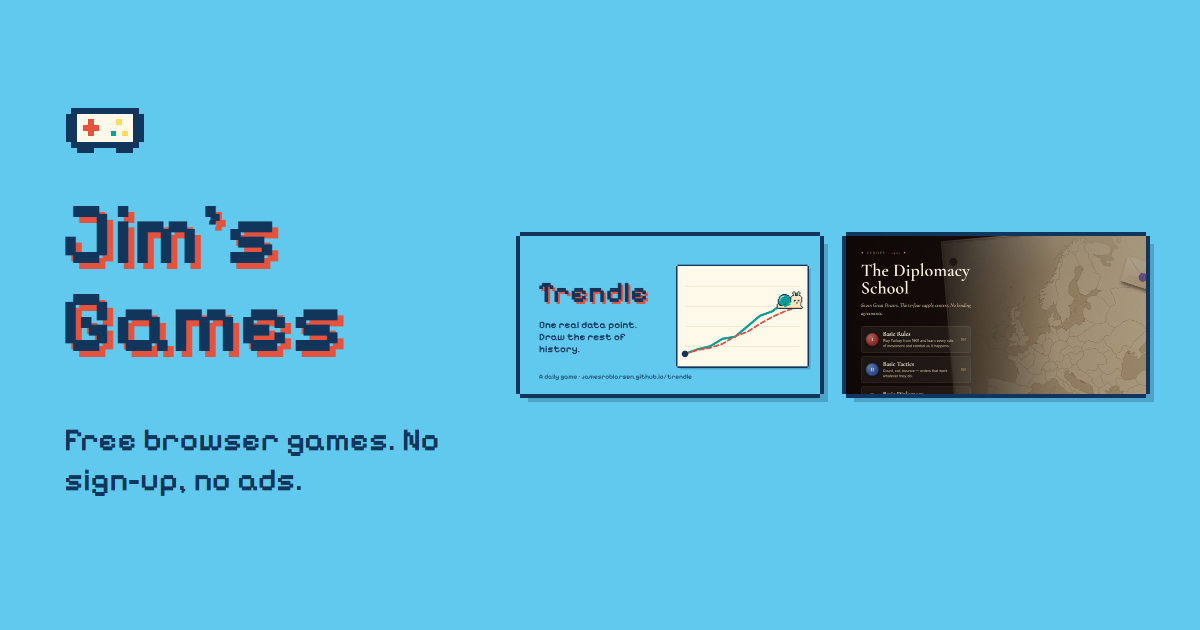
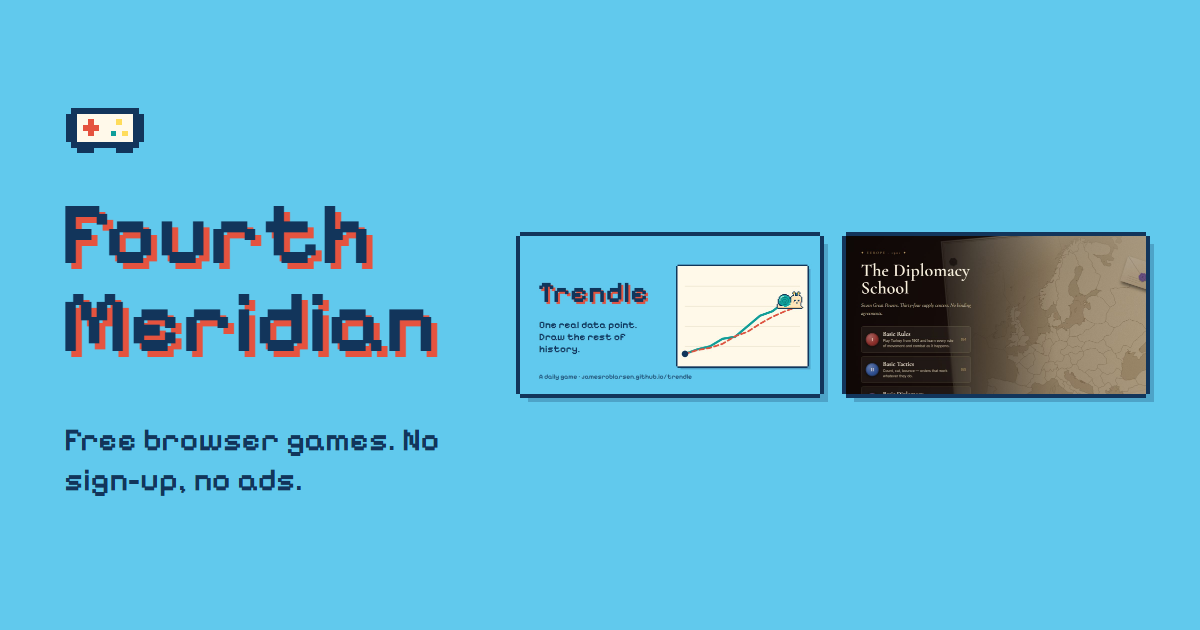
Publish hub build of 663f846

Changed region(s): [[0.0308, 0.3317, 0.37, 0.573]]

diff --git a/index.html b/index.html
@@ -3,14 +3,14 @@
 <head>
   <meta charset="utf-8">
   <meta name="viewport" content="width=device-width, initial-scale=1">
-  <title>Jim's Games · Free browser games by James Larsen</title>
+  <title>Fourth Meridian · Free browser games by James Larsen</title>
   <meta name="description" content="Free browser games by James Larsen: Trendle, Diplomacy School. No sign-up, no ads.">
   <meta name="author" content="James Larsen">
   <meta name="theme-color" content="#61c9ed">
   <link rel="canonical" href="https://jamesroblarsen.github.io/">
   <meta property="og:type" content="website">
-  <meta property="og:site_name" content="Jim's Games">
-  <meta property="og:title" content="Jim's Games · Free browser games by James Larsen">
+  <meta property="og:site_name" content="Fourth Meridian">
+  <meta property="og:title" content="Fourth Meridian · Free browser games by James Larsen">
   <meta property="og:description" content="Free browser games by James Larsen: Trendle, Diplomacy School. No sign-up, no ads.">
   <meta property="og:url" content="https://jamesroblarsen.github.io/">
   <meta property="og:image" content="https://jamesroblarsen.github.io/og.png">
@@ -24,7 +24,7 @@
 </head>
 <body>
   <header class="hero wrap">
-    <h1 class="brand"><img class="brand-icon" src="favicon.svg" alt="" width="60" height="60">Jim's Games</h1>
+    <h1 class="brand"><img class="brand-icon" src="favicon.svg" alt="" width="60" height="60">Fourth Meridian</h1>
     <p class="lede">Small games for your browser, made by James Larsen. <strong>Free, no sign-up, no ads.</strong></p>
   </header>
   <main class="wrap">

diff --git a/README.md b/README.md
@@ -1,4 +1,4 @@
-# Jim's Games
+# Fourth Meridian
 
 The built hub page, served at https://jamesroblarsen.github.io/
 
